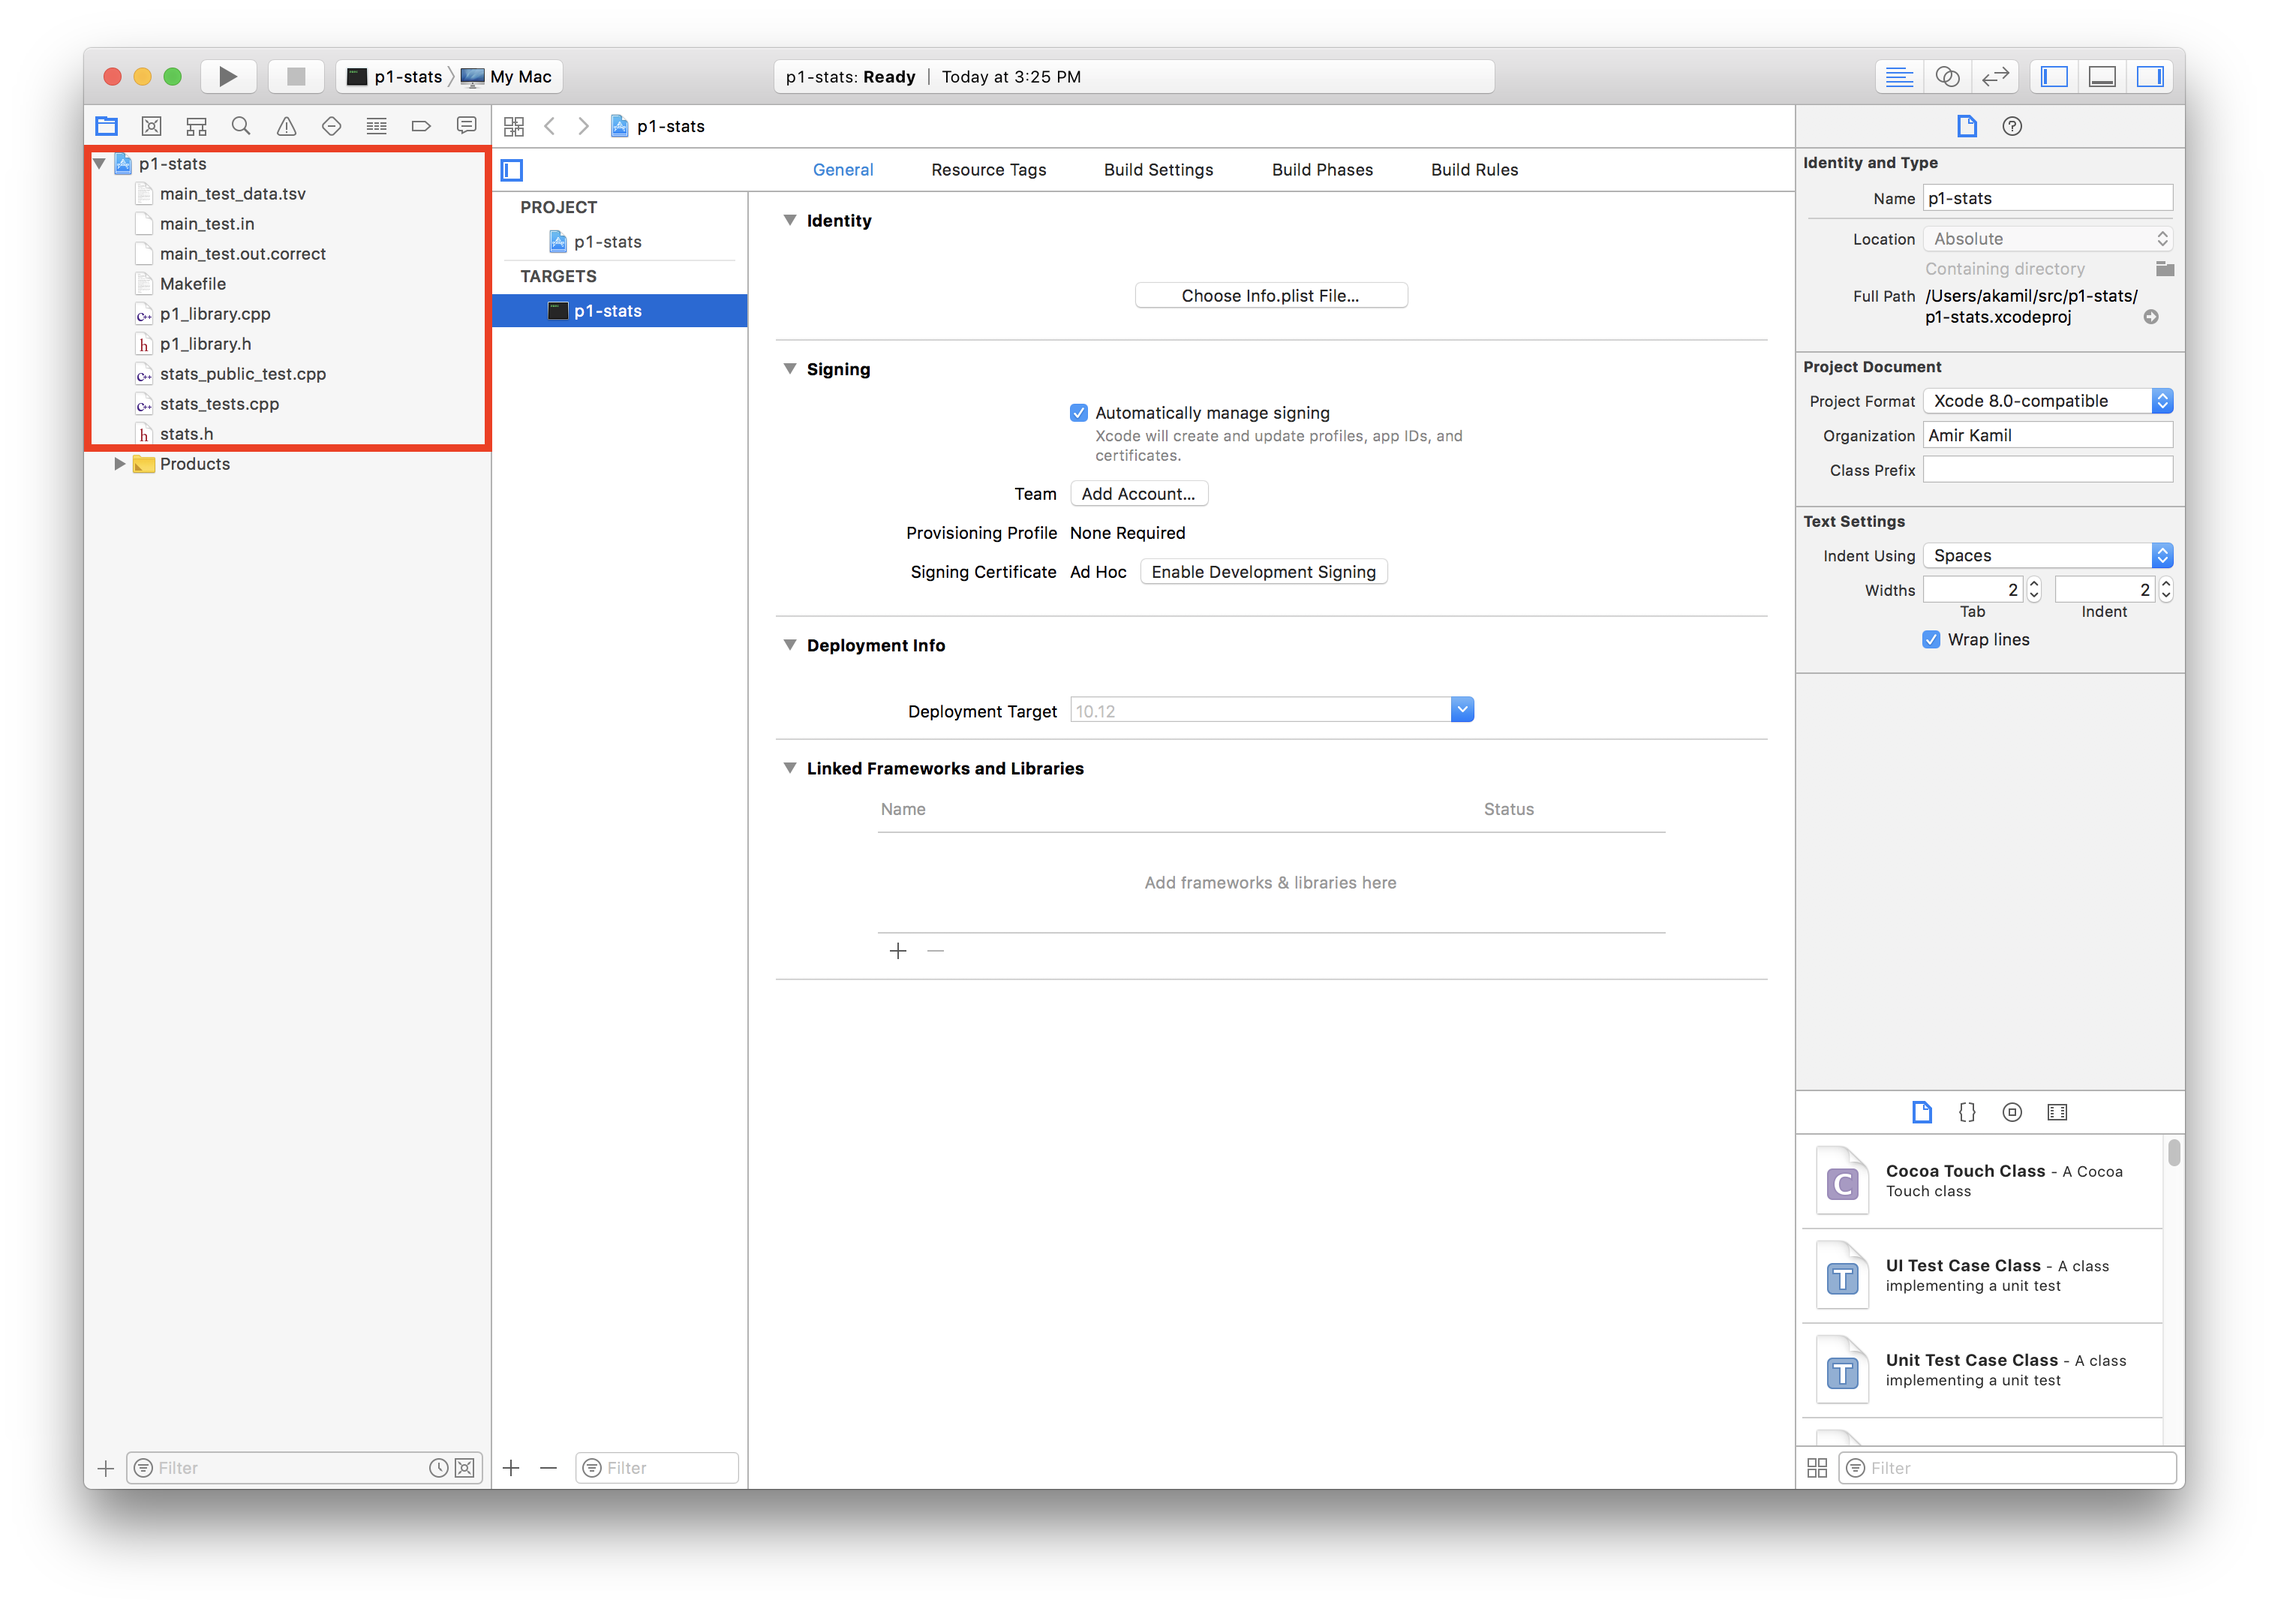
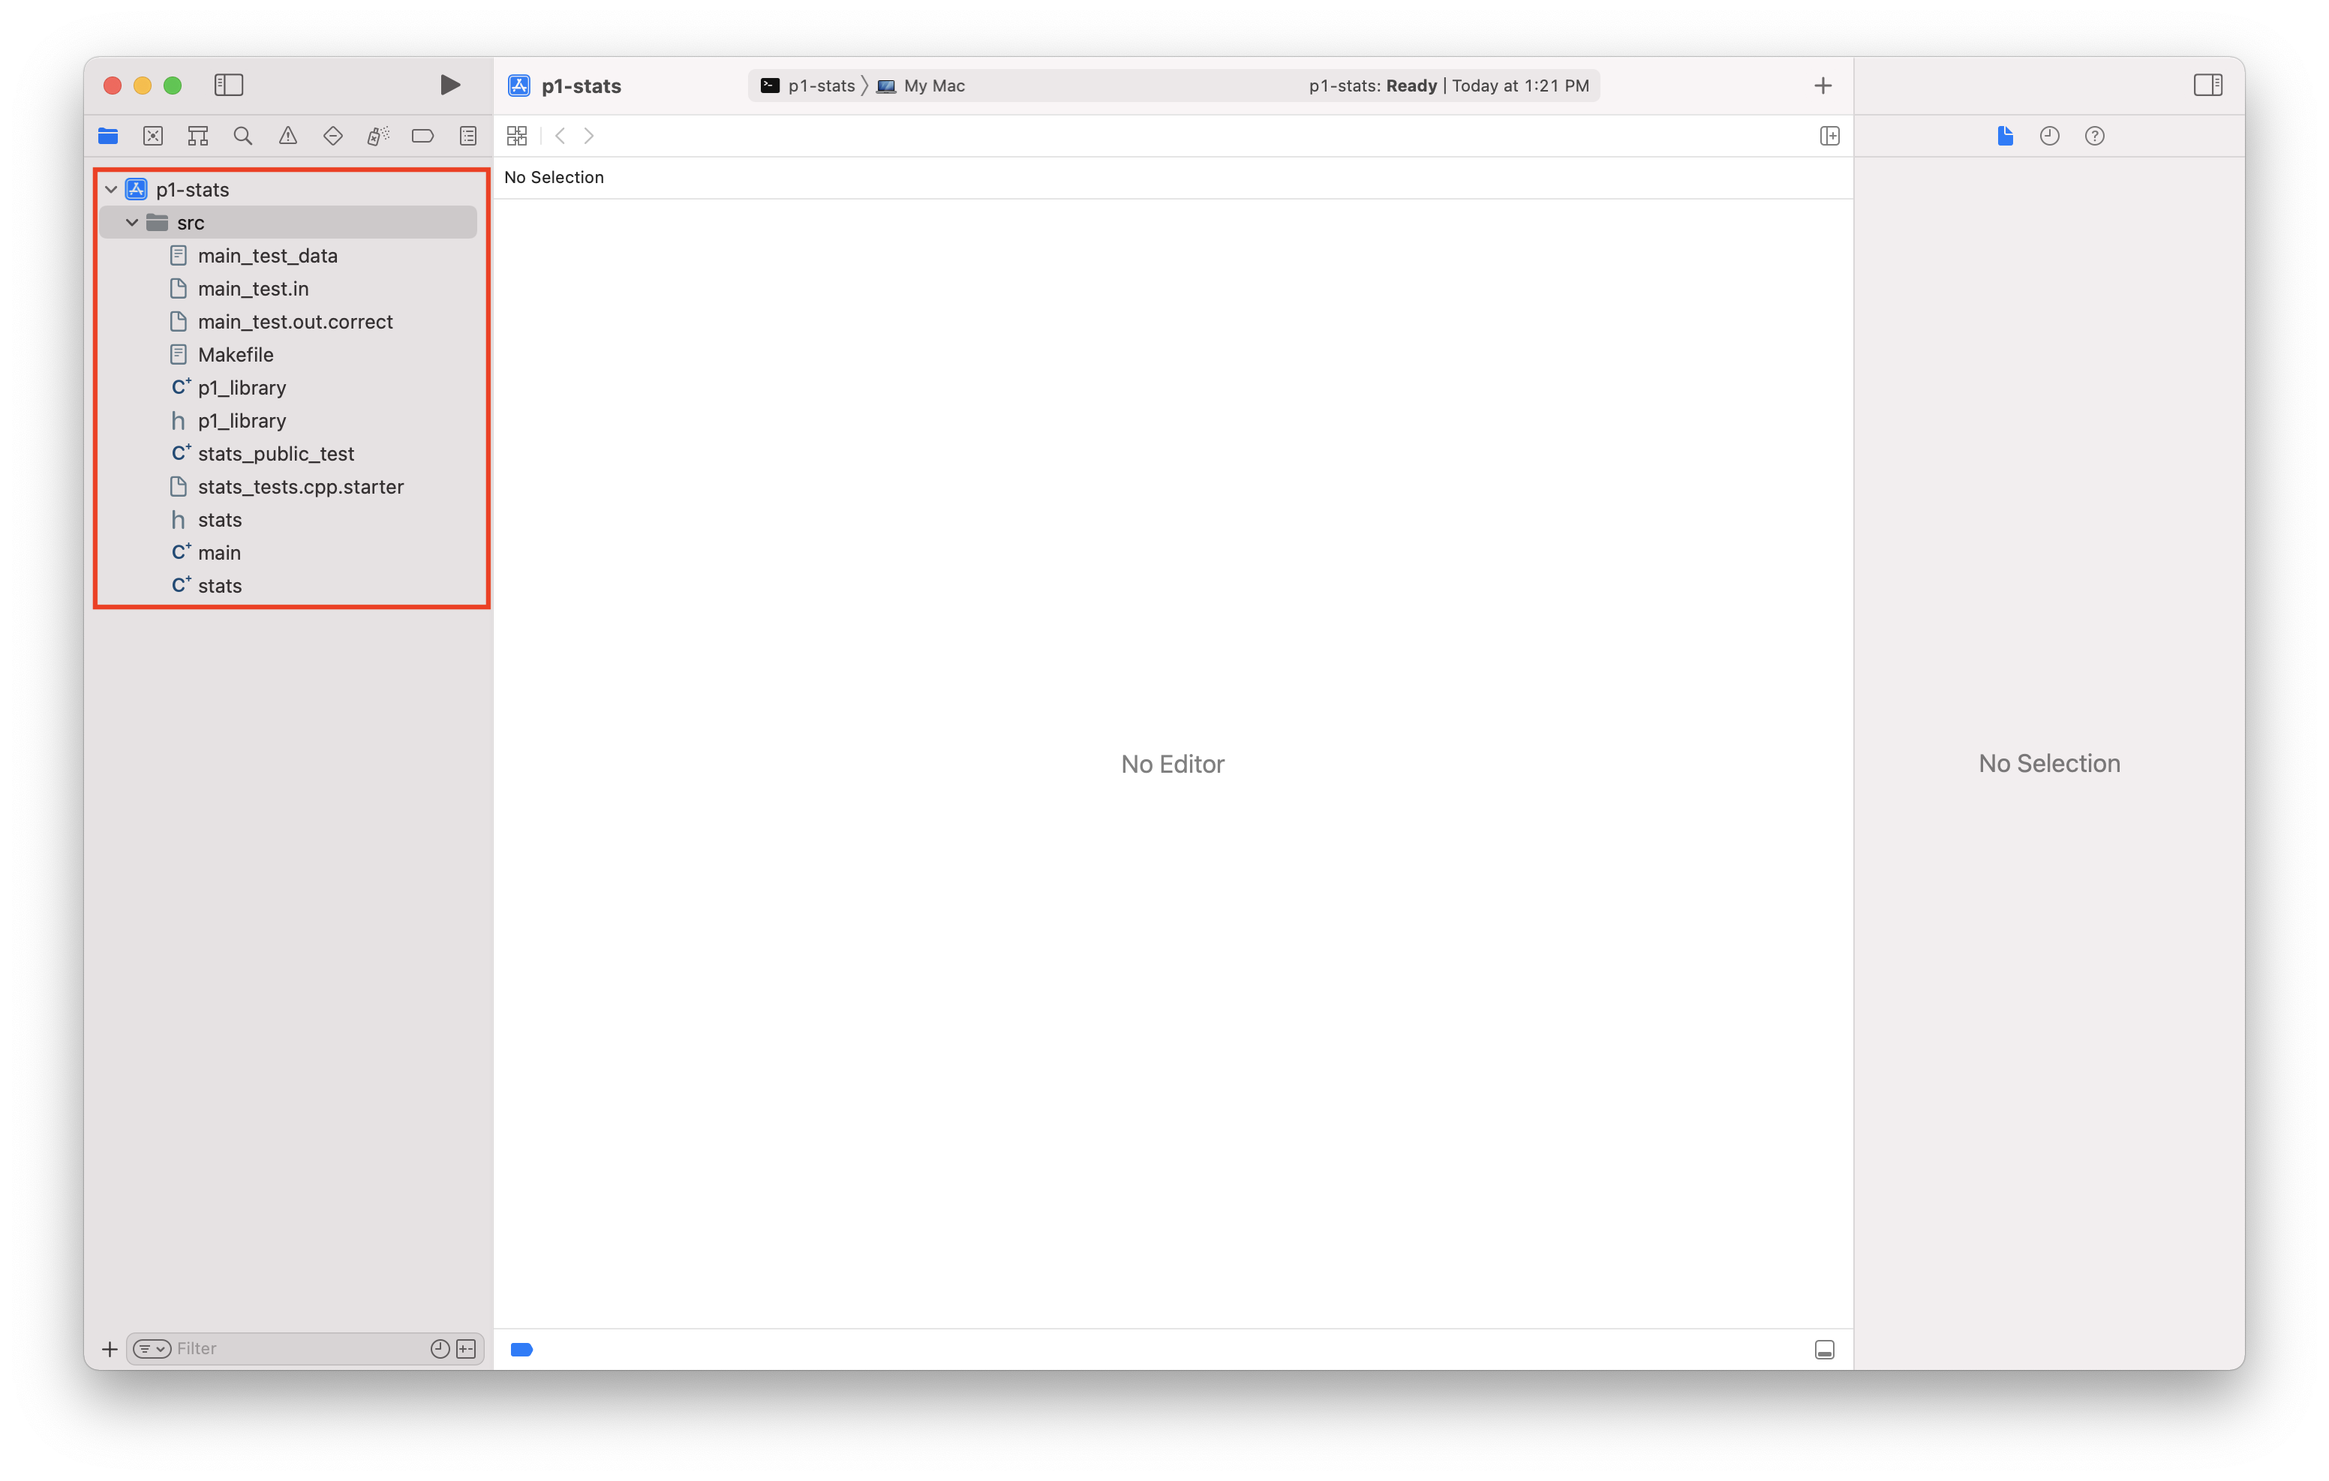
Xcode add existing files

diff --git a/docs/setup_xcode.md b/docs/setup_xcode.md
@@ -77,7 +77,7 @@ Click the `p1-stats` folder and rename it to `src`.  We recommend this in EECS 2
 
 <img src="images/xcode075.png" width="768px" />
 
-You can see the files created by Xcode from the command line.  Notice that Xcode created a for project metadata: `p1-stats.xcodeproj`.
+You can see the files created by Xcode from the command line.  Notice that Xcode created a folder project metadata: `p1-stats.xcodeproj`.
 ```console
 $ pwd
 /Users/awdeorio/src/eecs280/p1-stats
@@ -113,7 +113,7 @@ Select "macOS", "C++ File", and click "Next".
 
 <img src="images/xcode116.png" width="512px" />
 
-Name your file, we'll use `stats.cpp` for this example.  Uncheck "Also create a header file".
+Name your file, we'll use `stats.cpp` for this example.  Uncheck "Also create a header file".  There's nothing wrong with using "create a header file" if your project needs it.
 
 <img src="images/xcode117.png" width="512px" />
 
@@ -126,19 +126,53 @@ You should see your new file in the `src` directory.
 <img src="images/xcode119.png" width="768px" />
 
 ### Add existing files
-Next, we'll add our existing source code files to the project.
+If you have starter files, add them to the `src` subdirectory inside your project directory.
 
-Start Xcode and open your project.  Here's how to do that all at once, from the command line:
+We'll use the terminal to download, unpack, and move starter files into the `src` subdirectory.  Your URL or folder might be different.  **Pro-tip:** [copy/paste instructions for WSL](setup_wsl.html#how-do-i-copy-and-paste).
+
+<div class="primer-spec-callout warning" markdown="1">
+**Pitfall:** Make sure you're in the subdirectory containing your source code.
 ```console
-$ open p1-stats.xcodeproj
+$ ls
+main.cpp ...
 ```
-{: data-variant="no-line-numbers" }
+</div>
 
-Right-click "p1-stats" in the left side bar.  Select "Add Files to 'p1-stats'".
+```console
+$ wget https://eecs280staff.github.io/p1-stats/starter-files.tar.gz
+$ tar -xvzf starter-files.tar.gz
+$ mkdir -p src
+$ mv starter-files/* src/
+$ rm -rf starter-files starter-files.tar.gz
+```
+
+You should see your new files in the `src` subdirectory.
+```console
+$ tree
+.
+├── p1-stats.xcodeproj
+    ...
+└── src
+    ├── Makefile
+    ├── main.cpp
+    ├── main_test.in
+    ├── main_test.out.correct
+    ├── main_test_data.tsv
+    ├── p1_library.cpp
+    ├── p1_library.h
+    ├── stats.cpp
+    ├── stats.h
+    ├── stats_public_test.cpp
+    └── stats_tests.cpp.starter
+```
+
+Start Xcode and open your project.
+
+Right-click "src" in the left side bar.  Select "Add Files".  Do *not* select "Copy items if needed".
 
 <img src="images/xcode080.png" width="768px" />
 
-Select all the starter files (press Command-A) and click "Add".
+Select all the starter files (<kbd>Command</kbd> + <kbd>a</kbd>) and click "Add".
 
 <img src="images/xcode100.png" width="768px" />
 
